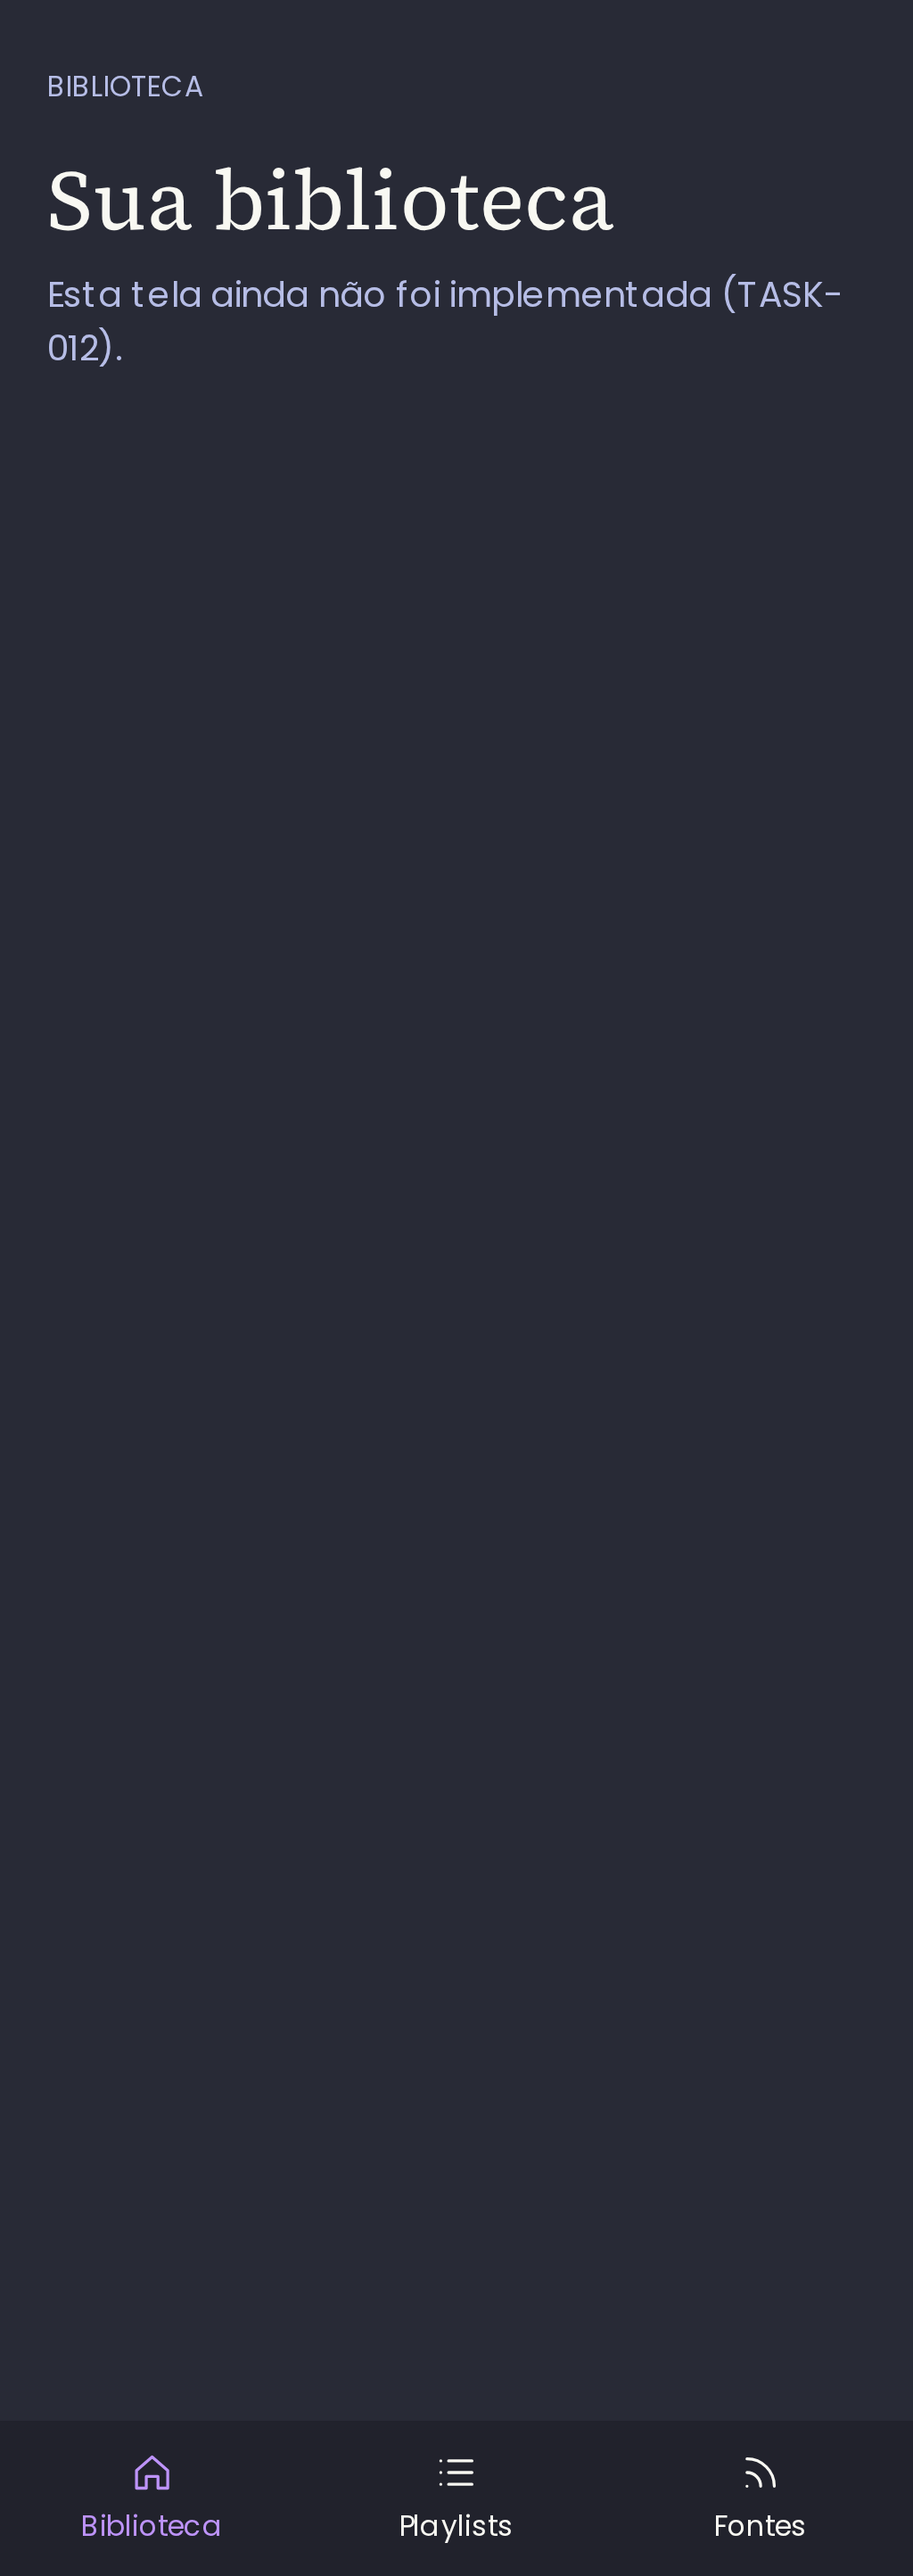
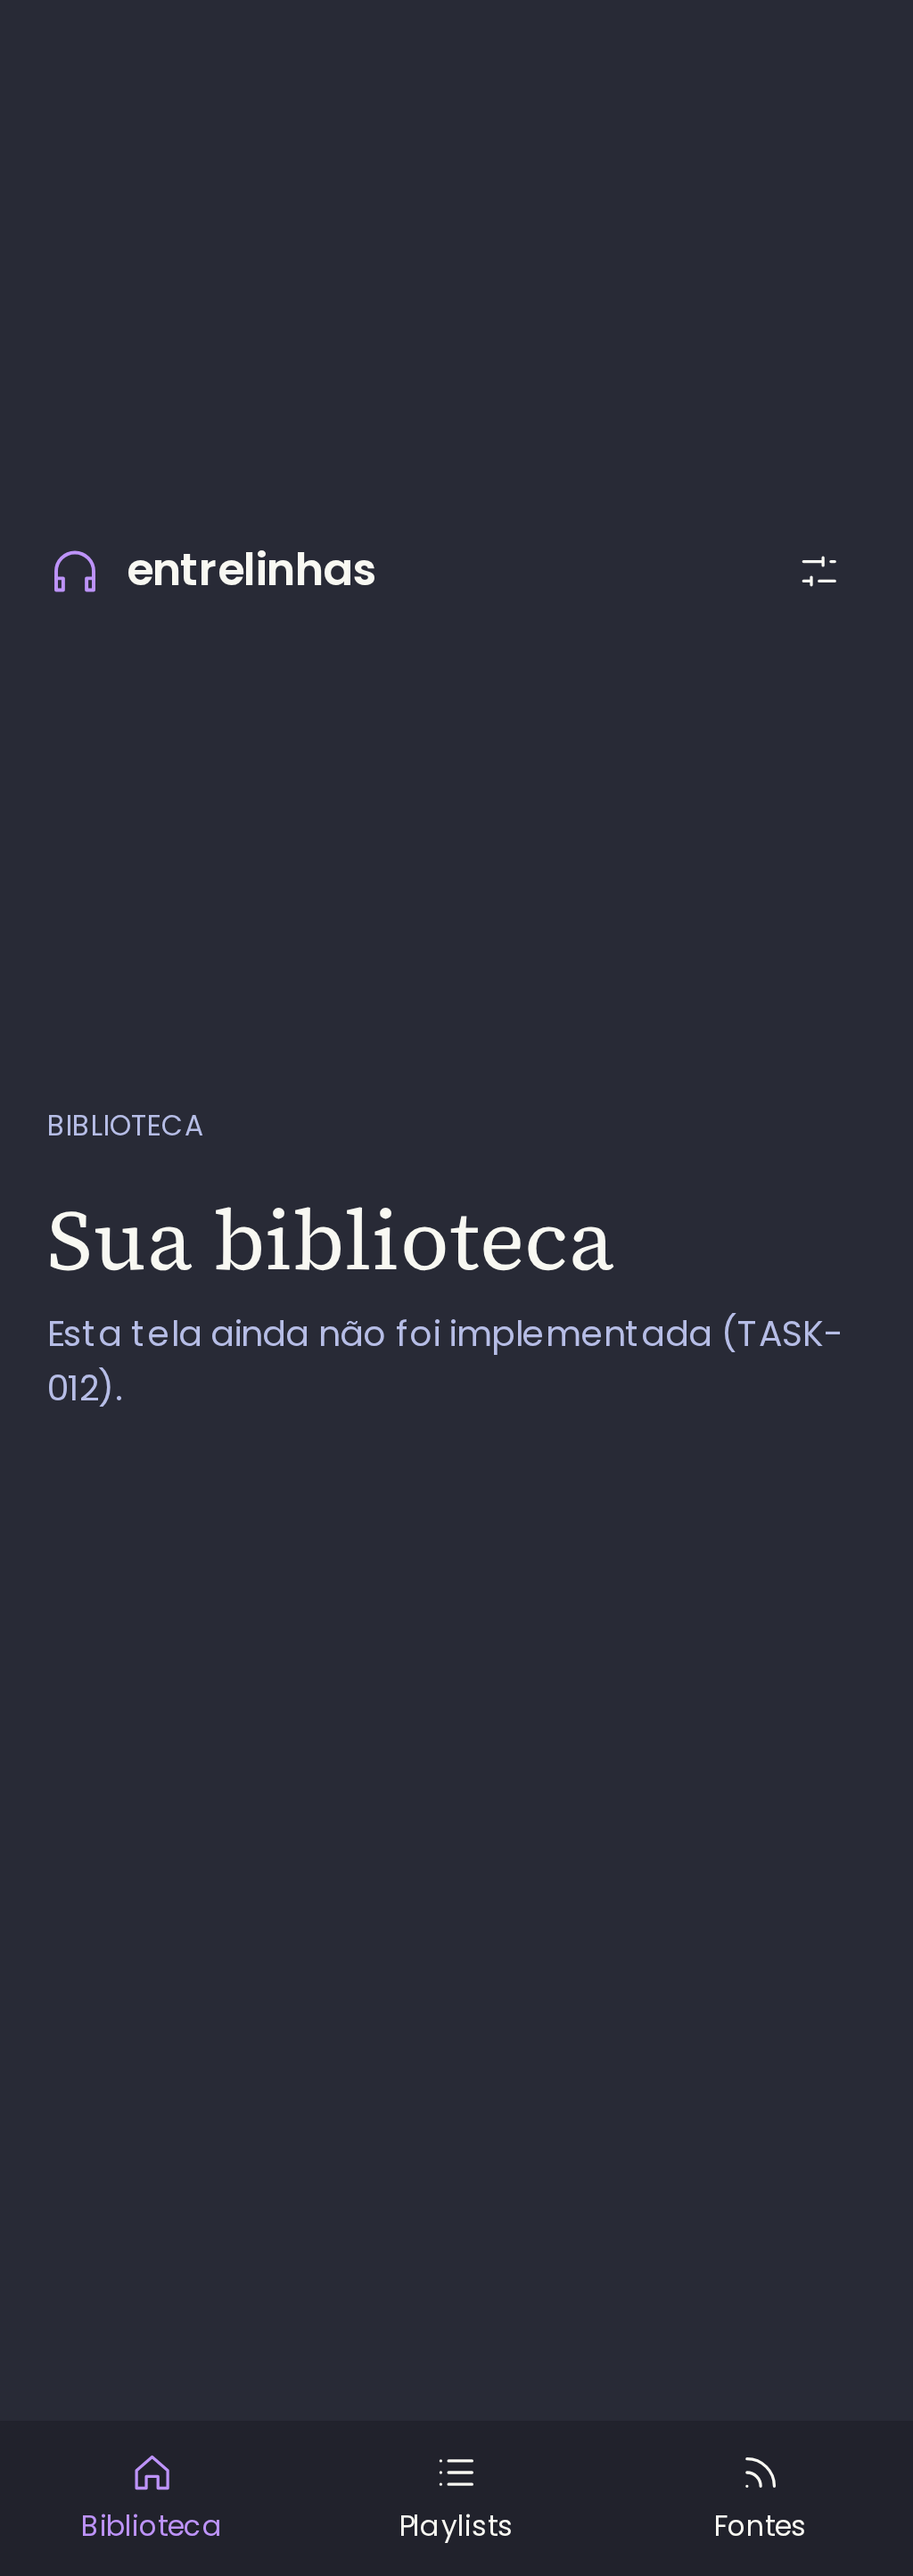
fix(app): address TASK-005 review (mobile access, session races, redirect query)
Codex review rejected 2957501; each finding reproduced by a failing test first:
- mobile: header Menu button (frame 16 top-right icon) opens a disclosure with every
  destination, the theme switch and Sair; Escape closes from anywhere and returns focus;
  navigating closes it. Covered in jsdom and in Chromium mobile projects.
- session generations: a late preferences response from another profile and a late initial
  /v1/session response can no longer overwrite the current session.
- login redirect keeps pathname + query.
- per-file gate flagged AppShell branches; unreachable guard removed by passing the session.

diff --git a/apps/frontend/src/app/AppShell.tsx b/apps/frontend/src/app/AppShell.tsx
@@ -1,5 +1,7 @@
+import { useEffect, useId, useRef, useState } from 'react';
 import { NavLink, Outlet } from 'react-router';
-import { Avatar, Badge, Button, Icon, Toggle, type IconName } from '../components';
+import { Avatar, Badge, Button, Icon, IconButton, Toggle, type IconName } from '../components';
+import type { Session } from '@entrelinhas/contracts';
 import { useSession } from './session';
 
 const MAIN_NAV: { to: string; label: string; icon: IconName }[] = [
@@ -10,11 +12,71 @@ const MAIN_NAV: { to: string; label: string; icon: IconName }[] = [
   { to: '/private', label: 'Capturas privadas', icon: 'lock' },
 ];
 
-// Shell from frame 01 (desktop sidebar) and frame 16 (mobile tab bar). The player bar arrives with TASK-021.
+function NavItems({ unread, onNavigate }: { unread: number; onNavigate?: () => void }) {
+  return (
+    <ul>
+      {MAIN_NAV.map((item) => (
+        <li key={item.to}>
+          <NavLink to={item.to} className="shell__nav-link" onClick={onNavigate}>
+            <Icon name={item.icon} />
+            <span>{item.label}</span>
+            {item.to === '/notifications' ? (
+              <>
+                {' '}
+                <Badge count={unread} label="notificações não lidas" />
+              </>
+            ) : null}
+          </NavLink>
+        </li>
+      ))}
+    </ul>
+  );
+}
+
+function ProfileControls({ session }: { session: Session }) {
+  const { signOut, updatePreferences } = useSession();
+  const { profile, preferences } = session;
+  return (
+    <div className="shell__profile">
+      <p className="shell__profile-name">
+        <Avatar initials={profile.initials} />
+        <span>{profile.display_name}</span>
+      </p>
+      <Toggle
+        label="Tema escuro (Dracula)"
+        checked={preferences.theme === 'dark'}
+        onChange={(dark) => void updatePreferences({ theme: dark ? 'dark' : 'light' })}
+      />
+      <Button variant="ghost" onClick={() => void signOut()}>
+        <Icon name="logout" />
+        Sair
+      </Button>
+    </div>
+  );
+}
+
+// Shell from frame 01 (desktop sidebar) and frame 16 (mobile header + tab bar). On mobile the
+// header button opens a disclosure with every destination, theme and sign out. Player: TASK-021.
 export function AppShell() {
-  const { state, signOut, updatePreferences } = useSession();
+  const { state } = useSession();
+  const [menuOpen, setMenuOpen] = useState(false);
+  const menuId = useId();
+  const menuButton = useRef<HTMLButtonElement>(null);
+
+  // Escape closes the menu wherever focus is (button or panel) and returns focus to the button.
+  useEffect(() => {
+    if (!menuOpen) return;
+    const onKeyDown = (e: KeyboardEvent) => {
+      if (e.key !== 'Escape') return;
+      setMenuOpen(false);
+      menuButton.current?.focus();
+    };
+    document.addEventListener('keydown', onKeyDown);
+    return () => document.removeEventListener('keydown', onKeyDown);
+  }, [menuOpen]);
+
   if (state.status !== 'authenticated') return null;
-  const { profile, preferences, unread_notifications } = state.session;
+  const unread = state.session.unread_notifications;
 
   return (
     <div className="shell">
@@ -25,34 +87,32 @@ export function AppShell() {
         </p>
         <p className="shell__tagline">Leituras para ouvir</p>
         <nav aria-label="Principal" className="shell__nav">
-          <ul>
-            {MAIN_NAV.map((item) => (
-              <li key={item.to}>
-                <NavLink to={item.to} className="shell__nav-link">
-                  <Icon name={item.icon} />
-                  <span>{item.label}</span>
-                  {item.to === '/notifications' ? <>{' '}<Badge count={unread_notifications} label="notificações não lidas" /></> : null}
-                </NavLink>
-              </li>
-            ))}
-          </ul>
+          <NavItems unread={unread} />
         </nav>
-        <div className="shell__profile">
-          <p className="shell__profile-name">
-            <Avatar initials={profile.initials} />
-            <span>{profile.display_name}</span>
-          </p>
-          <Toggle
-            label="Tema escuro (Dracula)"
-            checked={preferences.theme === 'dark'}
-            onChange={(dark) => void updatePreferences({ theme: dark ? 'dark' : 'light' })}
-          />
-          <Button variant="ghost" onClick={() => void signOut()}>
-            <Icon name="logout" />
-            Sair
-          </Button>
-        </div>
+        <ProfileControls session={state.session} />
       </aside>
+
+      <header className="shell__mobile-header">
+        <p className="shell__brand">
+          <Icon name="headphones" size={24} />
+          <span>entrelinhas</span>
+        </p>
+        <IconButton
+          ref={menuButton}
+          icon="settings"
+          label="Menu"
+          aria-expanded={menuOpen}
+          aria-controls={menuId}
+          onClick={() => setMenuOpen((open) => !open)}
+        />
+      </header>
+      {menuOpen ? (
+        <nav id={menuId} aria-label="Menu do perfil" className="shell__mobile-menu">
+          <NavItems unread={unread} onNavigate={() => setMenuOpen(false)} />
+          <ProfileControls session={state.session} />
+        </nav>
+      ) : null}
+
       <main className="shell__main">
         <Outlet />
       </main>

diff --git a/apps/frontend/src/app/session.tsx b/apps/frontend/src/app/session.tsx
@@ -1,4 +1,4 @@
-import { createContext, useCallback, useContext, useEffect, useMemo, useState, type ReactNode } from 'react';
+import { createContext, useCallback, useContext, useEffect, useMemo, useRef, useState, type ReactNode } from 'react';
 import { ApiError } from '@entrelinhas/api-client';
 import type { PreferencesUpdate, Session } from '@entrelinhas/contracts';
 import { api } from '../api';
@@ -25,14 +25,20 @@ const asApiError = (e: unknown) =>
 export function SessionProvider({ children }: { children: ReactNode }) {
   const [state, setState] = useState<SessionState>({ status: 'loading' });
   const [attempt, setAttempt] = useState(0);
+  // Every identity change (login, logout, reload) starts a new generation; async results from an
+  // older generation are discarded so a late response can never overwrite a newer session.
+  const generation = useRef(0);
 
   useEffect(() => {
     const controller = new AbortController();
+    const started = generation.current;
     api.getSession({ signal: controller.signal }).then(
-      (session) => setState({ status: 'authenticated', session }),
+      (session) => {
+        if (generation.current === started) setState({ status: 'authenticated', session });
+      },
       (e: unknown) => {
         const error = asApiError(e);
-        if (error.code === 'aborted') return;
+        if (error.code === 'aborted' || generation.current !== started) return;
         setState(error.status === 401 ? { status: 'anonymous' } : { status: 'error', error });
       },
     );
@@ -46,19 +52,26 @@ export function SessionProvider({ children }: { children: ReactNode }) {
   }, [theme]);
 
   const reload = useCallback(() => {
+    generation.current += 1;
     setState({ status: 'loading' });
     setAttempt((n) => n + 1);
   }, []);
 
-  const signedIn = useCallback((session: Session) => setState({ status: 'authenticated', session }), []);
+  const signedIn = useCallback((session: Session) => {
+    generation.current += 1;
+    setState({ status: 'authenticated', session });
+  }, []);
 
   const signOut = useCallback(async () => {
     await api.deleteSession();
+    generation.current += 1;
     setState({ status: 'anonymous' });
   }, []);
 
   const updatePreferences = useCallback(async (update: PreferencesUpdate) => {
+    const started = generation.current;
     const preferences = await api.updatePreferences(update);
+    if (generation.current !== started) return;
     setState((current) => (current.status === 'authenticated' ? { status: 'authenticated', session: { ...current.session, preferences } } : current));
   }, []);
 

diff --git a/apps/frontend/src/app/shell.test.tsx b/apps/frontend/src/app/shell.test.tsx
@@ -97,3 +97,44 @@ test('mobile tab bar offers the three main destinations (frame 16)', async () =>
   const tabs = await screen.findByRole('navigation', { name: 'Atalhos' });
   expect(within(tabs).getAllByRole('link').map((a) => a.textContent)).toEqual(['Biblioteca', 'Playlists', 'Fontes']);
 });
+
+describe('review TASK-005', () => {
+  test('mobile menu gives access to all destinations, theme and sign out (#1)', async () => {
+    signedIn();
+    renderApp('/library');
+    const menuButton = await screen.findByRole('button', { name: 'Menu' });
+    expect(menuButton).toHaveAttribute('aria-expanded', 'false');
+    await userEvent.click(menuButton);
+    expect(menuButton).toHaveAttribute('aria-expanded', 'true');
+    const panel = screen.getByRole('navigation', { name: 'Menu do perfil' });
+    expect(within(panel).getByRole('link', { name: /Notificações/ })).toBeInTheDocument();
+    expect(within(panel).getByRole('link', { name: 'Capturas privadas' })).toBeInTheDocument();
+    expect(within(panel).getByRole('switch', { name: 'Tema escuro (Dracula)' })).toBeInTheDocument();
+    expect(within(panel).getByRole('button', { name: 'Sair' })).toBeInTheDocument();
+    await userEvent.keyboard('{Escape}');
+    expect(menuButton).toHaveAttribute('aria-expanded', 'false');
+    expect(menuButton).toHaveFocus();
+    await userEvent.click(menuButton);
+    await userEvent.click(within(screen.getByRole('navigation', { name: 'Menu do perfil' })).getByRole('link', { name: 'Capturas privadas' }));
+    expect(await screen.findByRole('heading', { level: 1, name: 'Suas capturas privadas' })).toBeInTheDocument();
+    expect(menuButton).toHaveAttribute('aria-expanded', 'false');
+  });
+
+  test('other keys keep the menu open; the button toggles it closed', async () => {
+    signedIn();
+    renderApp('/library');
+    const menuButton = await screen.findByRole('button', { name: 'Menu' });
+    await userEvent.click(menuButton);
+    await userEvent.keyboard('a');
+    expect(menuButton).toHaveAttribute('aria-expanded', 'true');
+    await userEvent.click(menuButton);
+    expect(menuButton).toHaveAttribute('aria-expanded', 'false');
+    expect(screen.queryByRole('navigation', { name: 'Menu do perfil' })).toBeNull();
+  });
+
+  test('redirect to login keeps the full location including query (#4)', async () => {
+    const router = renderApp('/library?view=list');
+    await screen.findByRole('heading', { level: 1, name: 'Quem vai ouvir?' });
+    expect(router.state.location.state).toEqual({ from: '/library?view=list' });
+  });
+});

diff --git a/apps/frontend/src/app/session.test.tsx b/apps/frontend/src/app/session.test.tsx
@@ -45,3 +45,58 @@ test('unmounting during the session load aborts without updating state', async (
   await new Promise((r) => setTimeout(r, 20));
   expect(errors).not.toHaveBeenCalled();
 });
+
+describe('review TASK-005 races', () => {
+  const sessionFor = (index: number, theme: 'dark' | 'light') =>
+    ({ profile: profiles[index]!, preferences: { theme, library_view: 'cards' }, unread_notifications: 0, private_unlocked: false }) as const;
+
+  test('a late preferences response from profile A never changes profile B (#2)', async () => {
+    let release: () => void = () => undefined;
+    let called: () => void = () => undefined;
+    const handlerCalled = new Promise<void>((r) => (called = r));
+    server.use(
+      http.patch(
+        '/v1/me/preferences',
+        () =>
+          new Promise<Response>((resolve) => {
+            release = () => resolve(HttpResponse.json({ theme: 'light', library_view: 'cards' }));
+            called();
+          }),
+      ),
+    );
+    const { result } = renderHook(() => useSession(), { wrapper });
+    await waitFor(() => expect(result.current.state.status).toBe('anonymous'));
+    act(() => result.current.signedIn(sessionFor(0, 'dark')));
+    let pending: Promise<void> = Promise.resolve();
+    act(() => {
+      pending = result.current.updatePreferences({ theme: 'light' });
+    });
+    await handlerCalled;
+    act(() => result.current.signedIn(sessionFor(1, 'dark')));
+    release();
+    await act(() => pending);
+    expect(result.current.state).toMatchObject({ status: 'authenticated', session: { profile: { id: 'prof_ana' }, preferences: { theme: 'dark' } } });
+  });
+
+  test('the initial session load cannot overwrite a session obtained by login (#3)', async () => {
+    let release: () => void = () => undefined;
+    let called: () => void = () => undefined;
+    const handlerCalled = new Promise<void>((r) => (called = r));
+    server.use(
+      http.get(
+        '/v1/session',
+        () =>
+          new Promise<Response>((resolve) => {
+            release = () => resolve(HttpResponse.json({ error: { code: 'unauthenticated', message: 'x' } }, { status: 401 }));
+            called();
+          }),
+      ),
+    );
+    const { result } = renderHook(() => useSession(), { wrapper });
+    await handlerCalled;
+    act(() => result.current.signedIn(sessionFor(0, 'dark')));
+    release();
+    await new Promise((r) => setTimeout(r, 20));
+    expect(result.current.state.status).toBe('authenticated');
+  });
+});

diff --git a/tests/e2e/shell.spec.ts b/tests/e2e/shell.spec.ts
@@ -11,6 +11,18 @@ test('signed-in shell: navigation, current page and theme switch', async ({ page
     await expect(page.getByRole('navigation', { name: 'Principal' })).toBeHidden();
     await tabs.getByRole('link', { name: 'Playlists' }).click();
     await expect(page.getByRole('heading', { level: 1, name: 'Playlists' })).toBeVisible();
+    // Review TASK-005 #1: theme and sign out reachable on mobile through the header menu.
+    const menu = page.getByRole('button', { name: 'Menu' });
+    await menu.click();
+    const panel = page.getByRole('navigation', { name: 'Menu do perfil' });
+    await panel.getByRole('switch', { name: 'Tema escuro (Dracula)' }).click();
+    await expect(html).toHaveAttribute('data-theme', 'light');
+    await page.keyboard.press('Escape');
+    await expect(menu).toHaveAttribute('aria-expanded', 'false');
+    await expect(menu).toBeFocused();
+    await menu.click();
+    await panel.getByRole('button', { name: 'Sair' }).click();
+    await expect(page.getByRole('heading', { level: 1, name: 'Quem vai ouvir?' })).toBeVisible();
     return;
   }
 

diff --git a/apps/frontend/src/components/Button.tsx b/apps/frontend/src/components/Button.tsx
@@ -1,4 +1,4 @@
-import type { ButtonHTMLAttributes } from 'react';
+import { forwardRef, type ButtonHTMLAttributes } from 'react';
 import { Icon, type IconName } from './Icon';
 
 export type ButtonVariant = 'primary' | 'outline' | 'danger' | 'ghost';
@@ -17,10 +17,13 @@ interface IconButtonProps extends Omit<ButtonHTMLAttributes<HTMLButtonElement>, 
   label: string;
 }
 
-export function IconButton({ icon, label, type = 'button', className, ...props }: IconButtonProps) {
+export const IconButton = forwardRef<HTMLButtonElement, IconButtonProps>(function IconButton(
+  { icon, label, type = 'button', className, ...props },
+  ref,
+) {
   return (
-    <button type={type} aria-label={label} className={['el-icon-button', className].filter(Boolean).join(' ')} {...props}>
+    <button ref={ref} type={type} aria-label={label} className={['el-icon-button', className].filter(Boolean).join(' ')} {...props}>
       <Icon name={icon} />
     </button>
   );
-}
+});

diff --git a/apps/frontend/src/app/shell.css b/apps/frontend/src/app/shell.css
@@ -90,7 +90,9 @@
   padding: 40px 40px 140px;
 }
 
-.shell__tabbar {
+.shell__tabbar,
+.shell__mobile-header,
+.shell__mobile-menu {
   display: none;
 }
 
@@ -123,7 +125,32 @@
     display: none;
   }
   .shell__main {
-    padding: 28px 20px 96px;
+    padding: 8px 20px 96px;
+  }
+  .shell__mobile-header {
+    display: flex;
+    align-items: center;
+    justify-content: space-between;
+    padding: 24px 20px 0;
+  }
+  .shell__mobile-menu {
+    display: grid;
+    gap: var(--space-4);
+    margin: var(--space-3) 20px 0;
+    padding: var(--space-4);
+    border: 1px solid var(--color-border);
+    border-radius: var(--radius-md);
+    background: var(--color-bg-sidebar);
+  }
+  .shell__mobile-menu ul {
+    display: grid;
+    gap: 4px;
+    margin: 0;
+    padding: 0;
+    list-style: none;
+  }
+  .shell__mobile-menu .shell__profile {
+    margin-top: 0;
   }
   .shell__tabbar {
     position: fixed;

diff --git a/apps/frontend/src/app/RequireSession.tsx b/apps/frontend/src/app/RequireSession.tsx
@@ -21,6 +21,6 @@ export function RequireSession() {
       </div>
     );
   }
-  if (state.status === 'anonymous') return <Navigate to="/login" replace state={{ from: location.pathname }} />;
+  if (state.status === 'anonymous') return <Navigate to="/login" replace state={{ from: `${location.pathname}${location.search}` }} />;
   return <Outlet />;
 }
